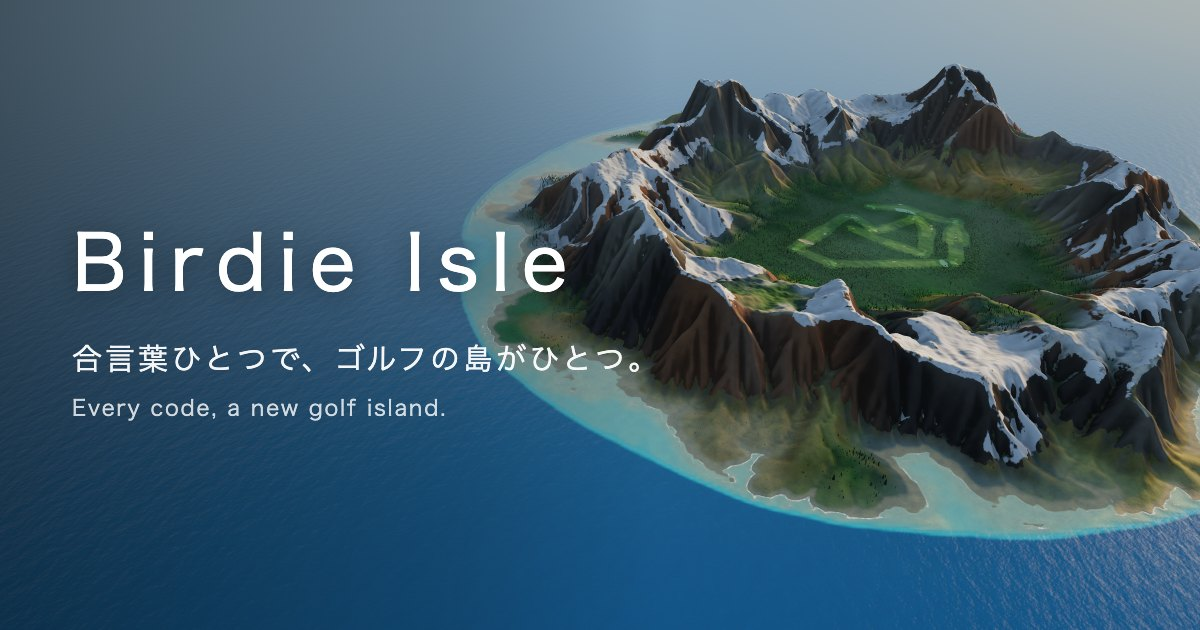
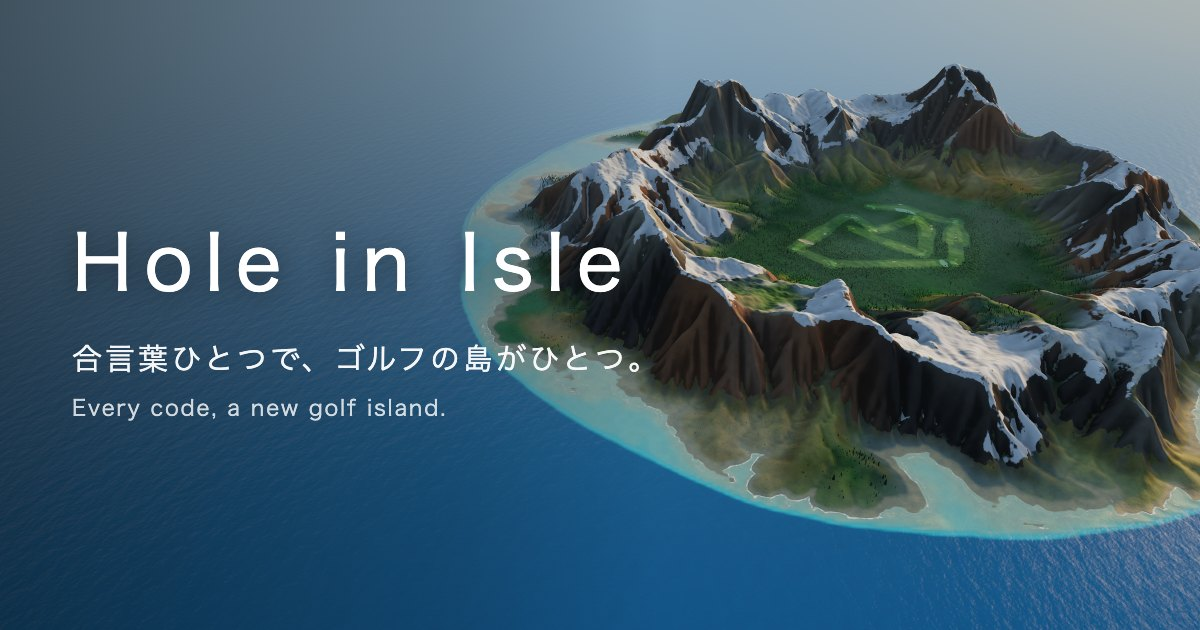
名前を Hole in Isle にする。最初の島の空撮を短く、大きく回り込むように
- 「ホールインワン」の「ワン」を島（Isle）に替えた名前。Birdie Isle はバーディがゴルフをする人にしか通じにくい
- 島のカットは 7 秒で、島の周りを 45° ほど回り込みながら寄る（小さく動くと止まって見えた）
- 共有したときの画像も新しい名前で作り直す

Changed region(s): [[0.0617, 0.3619, 0.5242, 0.4825], [0.8633, 0.8143, 1.0, 0.9651], [0.9867, 0.9651, 1.0, 0.9952]]

diff --git a/index.html b/index.html
@@ -3,7 +3,7 @@
   <head>
     <meta charset="UTF-8" />
     <meta name="viewport" content="width=device-width, initial-scale=1.0, viewport-fit=cover" />
-    <title>Birdie Isle — 合言葉ひとつで、ゴルフの島がひとつ</title>
+    <title>Hole in Isle — 合言葉ひとつで、ゴルフの島がひとつ</title>
     <meta
       name="description"
       content="合言葉ひとつで、山に囲まれた谷に 9 ホールのコースがある島がひとつ。URL を送れば友達も同じコースで回れる。ピンと風は毎日替わる。ブラウザですぐ遊べるゴルフ。"
@@ -14,11 +14,11 @@
     <meta name="mobile-web-app-capable" content="yes" />
     <meta name="apple-mobile-web-app-capable" content="yes" />
     <meta name="apple-mobile-web-app-status-bar-style" content="black-translucent" />
-    <meta name="apple-mobile-web-app-title" content="Birdie Isle" />
+    <meta name="apple-mobile-web-app-title" content="Hole in Isle" />
     <!-- 共有したときの見た目（X・LINE・Discord など）。画像は絶対 URL でないと読まない所がある。 -->
     <meta property="og:type" content="website" />
-    <meta property="og:site_name" content="Birdie Isle" />
-    <meta property="og:title" content="Birdie Isle — 合言葉ひとつで、ゴルフの島がひとつ" />
+    <meta property="og:site_name" content="Hole in Isle" />
+    <meta property="og:title" content="Hole in Isle — 合言葉ひとつで、ゴルフの島がひとつ" />
     <meta property="og:description" content="URL を送れば友達も同じコースで。ピンと風は毎日替わる。ブラウザですぐ遊べるゴルフ。" />
     <meta property="og:image" content="https://island-golf.hochu.workers.dev/og.jpg" />
     <meta property="og:image:width" content="1200" />

diff --git a/src/view/flyover.ts b/src/view/flyover.ts
@@ -61,7 +61,7 @@ export class Flyover {
     private readonly still = false,
   ) {
     // 島全体: 海に浮かぶ島（山の輪に囲まれた谷と、その中のコース）を、沖の高い所からゆっくり寄って見る。
-    // 名前（Birdie Isle）の「島」を最初の絵で伝える。
+    // 名前（Hole in Isle）の「島」を最初の絵で伝える。
     let cx = 0;
     let cz = 0;
     for (const h of holes) {
@@ -70,12 +70,13 @@ export class Flyover {
     }
     cx /= holes.length * 2;
     cz /= holes.length * 2;
+    // 島のカットは短く（7 秒）、大きく回り込みながら寄る（島の周りを 45° ほど回る。小さく動くと止まって見えた）。
     this.add({
-      from: new THREE.Vector3(cx - 1500, 1550, cz + 2700),
-      to: new THREE.Vector3(cx - 950, 1250, cz + 2250),
+      from: new THREE.Vector3(cx - 1900, 1650, cz + 2400),
+      to: new THREE.Vector3(cx - 250, 1150, cz + 2600),
       lookFrom: new THREE.Vector3(cx, 0, cz + 150),
-      lookTo: new THREE.Vector3(cx, 0, cz + 100),
-      duration: 12,
+      lookTo: new THREE.Vector3(cx, 0, cz + 150),
+      duration: 7,
       hole: null,
       area: 'none',
       wide: true,

diff --git a/src/main.ts b/src/main.ts
@@ -29,7 +29,7 @@ import { HoleMap } from './ui/holeMap';
 import { GolfSounds } from './audio/golfSounds';
 
 /**
- * Birdie Isle（コード名 island-golf）。合言葉ひとつで、山に囲まれた谷に 9 ホールのコースがある島がひとつできる。
+ * Hole in Isle（コード名 island-golf）。合言葉ひとつで、山に囲まれた谷に 9 ホールのコースがある島がひとつできる。
  * 合言葉は URL の `#` に載るので、URL を送れば同じ島・同じコースを渡せる。ピンと風は日ごとに替わる。
  *
  * 開くと、暗い読み込み画面から島の空撮（開始画面）へ。「プレイ」で 1 番のティーから回り、F で空から見る。
@@ -455,7 +455,7 @@ function startFinale(total: number, totalPar: number): void {
     putts: stats.reduce((a, st) => a + (st?.putts ?? 0), 0),
     birdies: pars.filter((p, k) => scores[k] !== undefined && scores[k]! < p).length,
     shareText: [
-      `Birdie Isle ${seed}（${dateLabel} のピン）`,
+      `Hole in Isle ${seed}（${dateLabel} のピン）`,
       `${total} 打（${toPar(total, totalPar)}）`,
       marks,
       `${location.origin}${location.pathname}#${seed}`,

diff --git a/src/ui/overlay.ts b/src/ui/overlay.ts
@@ -3,7 +3,7 @@ import { KIND_NAMES } from '../golf/course';
 import type { IslandParams } from '../island/params';
 
 /**
- * Birdie Isle の画面。見た目は stroll と同じ言葉（モノクロのガラス、字間を空けた見出し、丸いボタン）。
+ * Hole in Isle の画面。見た目は stroll と同じ言葉（モノクロのガラス、字間を空けた見出し、丸いボタン）。
  *
  * 開始・休憩の画面は、後ろでコース紹介の空撮を流し、部品を四隅に寄せる:
  * 左上にタイトル、左下にコース ID と「新しいコース」、右下に「プレイ」と「IDで入る」「共有」。
@@ -163,7 +163,7 @@ export class Overlay {
       <div class="screen-fade"></div>
       <aside class="panel">
         <header class="title">
-          <h1 class="title-logo">Birdie Isle</h1>
+          <h1 class="title-logo">Hole in Isle</h1>
           <p class="tagline">合言葉ひとつで、ゴルフの島がひとつ。</p>
         </header>
         <section class="course-panel">

diff --git a/CLAUDE.md b/CLAUDE.md
@@ -1,14 +1,19 @@
-# 作業メモ（Birdie Isle）
+# 作業メモ（Hole in Isle）
 
-**Birdie Isle（バーディアイル）**: 合言葉ひとつで、山に囲まれた谷に 9 ホールのコースがある島がひとつできるゴルフ。
+**Hole in Isle（ホール・イン・アイル）**: 合言葉ひとつで、山に囲まれた谷に 9 ホールのコースがある島がひとつできるゴルフ。
 2026-09-26 に island-maker から分かれた。リポジトリ・手元のフォルダ・公開先の名前（コード名）は `island-golf` のまま。
 
-名前は 2026-09-27 に決めた（利用者から委任）。広めやすさを最優先に「ゴルフと島がそのまま分かる、いちばん単純な形」
-から探した。「Golf Island」「Island Golf」「Golf Isle」は、同名や検索で先に出るゲームがあり（Steam の Golf Island は
-シードで同じコースを作って比べる、ほぼ同じ売り）、口コミが向こうへ流れるので避けた。Golf をよく知られたゴルフの言葉
-（Birdie）に替えただけで、残りは単純なまま。副題「合言葉ひとつで、ゴルフの島がひとつ。」で何のゲームかを言う。
-ドメイン birdieisle.com は 2026-09-27 の時点で空き（未取得）。開始画面の最初のカットは、名前の「島」を絵で伝えるため
-海に浮かぶ島全体を見せる（縦長の画面ほど引いて、霧もその分薄くする。`view/flyover.ts` の `wide`）。
+名前は 2026-09-27 に利用者と決めた。広めやすさを最優先に、「ホールインワン」（日本でもゴルフをしない人まで知っている）
+の「ワン」を島（Isle）に替えた。英語では Hole in One と同じ 3 拍で、しゃれがきれいに決まる。
+- 避けた名前: 「Golf Island」「Island Golf」「Golf Isle」は同名や検索で先に出るゲームがあり（Steam の Golf Island は
+  シードで同じコースを作って比べる、ほぼ同じ売り）、口コミが向こうへ流れる。「Birdie Isle」はバーディがゴルフを
+  する人にしか通じにくいと利用者が感じた
+- 弱点: 日本では「アイル」が島だとあまり知られていない（副題「合言葉ひとつで、ゴルフの島がひとつ。」で補う）。
+  s を読まない綴りで打ち間違えやすいので、holeinisland.com も取って転送する予定
+- ドメイン holeinisle.com・holeinisland.com は 2026-09-27 の時点で空き（未取得）。取ったら公開先をそちらへ移す
+
+開始画面の最初のカットは、名前の「島」を絵で伝えるため海に浮かぶ島全体を見せる（7 秒で島の周りを 45° ほど回り込む。
+縦長の画面ほど引いて、霧もその分薄くする。`view/flyover.ts` の `wide`）。
 共有したときの画像は `public/og.jpg`（ゲームの絵から作った）。`index.html` の `og:image` は絶対 URL なので、
 公開先のドメインを替えたら書き換えること。
 島を作る仕組み（生成・描画・飛ぶ操作）は island-maker と共通で、ここから上にゴルフを載せる。
